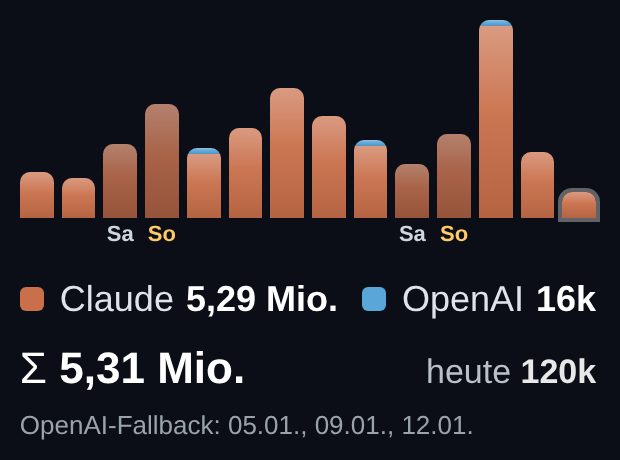
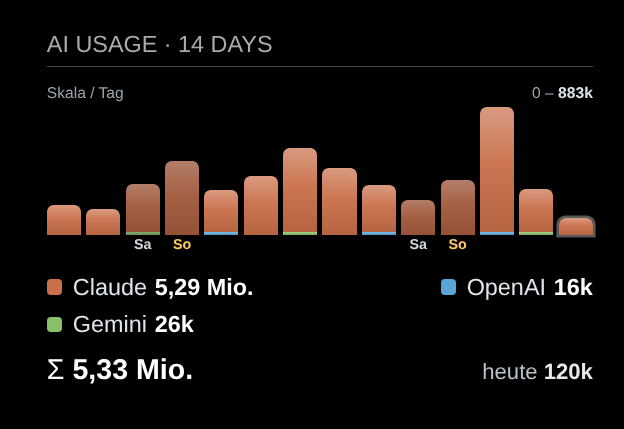
feat: add peak scale and quarter-hour refresh example

diff --git a/MMM-TokenUsage.js b/MMM-TokenUsage.js
@@ -6,6 +6,7 @@ Module.register("MMM-TokenUsage", {
 		dataSource: "data.json",
 		header: "AI Usage · 14 days",
 		barMaxHeight: 96,
+		showScale: true,
 		providerColors: {},
 		colorClaude: "#c96f4a",
 		colorOpenAI: "#5aa6d8"
@@ -38,12 +39,25 @@ Module.register("MMM-TokenUsage", {
 			series.reduce((sum, item) => sum + Number(item.daily[i] || 0), 0));
 		const peak = Math.max(...totals, 1);
 		const H = this.config.barMaxHeight;
+		if (this.config.showScale !== false) {
+			const scale = document.createElement("div");
+			scale.className = "tu-scale";
+			const title = document.createElement("span");
+			title.textContent = "Skala / Tag";
+			const range = document.createElement("span");
+			range.appendChild(document.createTextNode("0 – "));
+			const value = document.createElement("b");
+			value.textContent = this.fmt(peak);
+			range.appendChild(value);
+			scale.appendChild(title);
+			scale.appendChild(range);
+			w.appendChild(scale);
+		}
 
 		const chart = document.createElement("div");
 		chart.className = "tu-chart";
 		chart.style.height = `${H + 16}px`;
 		const anchor = new Date(String(d.generated || "").replace(" ", "T"));
-		const peakIdx = totals.indexOf(peak);
 		for (let i = 0; i < n; i++) {
 			const col = document.createElement("div");
 			col.className = "tu-col";

diff --git a/tests/harness.html b/tests/harness.html
@@ -1,0 +1,29 @@
+<!doctype html>
+<html lang="en">
+<head>
+	<meta charset="utf-8">
+	<meta name="viewport" content="width=device-width, initial-scale=1">
+	<title>MMM-TokenUsage render harness</title>
+	<style>
+		body { margin: 0; min-height: 100vh; display: flex; align-items: flex-start; justify-content: flex-end; background: #000; color: #fff; font-family: Roboto, Arial, sans-serif; }
+		.module { width: 420px; padding: 24px; }
+		.module-header { margin: 0 0 14px; padding-bottom: 6px; border-bottom: 1px solid #444; color: #aaa; font-size: 18px; text-transform: uppercase; }
+	</style>
+	<link rel="stylesheet" href="../MMM-TokenUsage.css">
+</head>
+<body>
+	<div class="module MMM-TokenUsage">
+		<div class="module-header">AI Usage · 14 days</div>
+	</div>
+	<script>window.Module = { register: (_name, definition) => { window.__module = definition; } };</script>
+	<script src="../MMM-TokenUsage.js"></script>
+	<script>
+		(async () => {
+			const module = window.__module;
+			module.config = { ...module.defaults };
+			module.data_ = await fetch("../data.json").then(response => response.json());
+			document.querySelector(".MMM-TokenUsage").appendChild(module.getDom());
+		})();
+	</script>
+</body>
+</html>

diff --git a/MMM-TokenUsage.css b/MMM-TokenUsage.css
@@ -2,6 +2,8 @@
 .tokenusage .tu-load { color: #9aa4b2; font-size: 16px; padding: 12px 0; }
 
 /* Chart */
+.tokenusage .tu-scale { display: flex; justify-content: space-between; align-items: baseline; margin: 0 0 5px; font-size: 12px; line-height: 14px; color: #9aa3ac; }
+.tokenusage .tu-scale b { color: #dfe4ea; font-weight: 600; }
 .tokenusage .tu-chart { display: flex; align-items: flex-end; gap: 4px; width: 100%; }
 .tokenusage .tu-col { display: flex; flex-direction: column; justify-content: flex-end; align-items: stretch; flex: 1 1 0; min-width: 6px; }
 .tokenusage .tu-stack { display: flex; flex-direction: column; justify-content: flex-end; border-radius: 5px 5px 0 0; overflow: hidden; }

diff --git a/tests/test_renderer.js b/tests/test_renderer.js
@@ -10,6 +10,9 @@ global.Module = {
 require("../MMM-TokenUsage.js");
 
 definition.config = { ...definition.defaults, providerColors: { gemini: "#112233" } };
+assert.strictEqual(definition.defaults.updateInterval, 15 * 60 * 1000);
+assert.strictEqual(definition.defaults.showScale, true);
+assert.strictEqual(definition.fmt(16823296), "16,82 Mio.");
 
 const generic = definition.normalizedSeries({
 	schema_version: 2,

diff --git a/README.md b/README.md
@@ -140,7 +140,7 @@ ssh mirror-host 'install -m 0644 /tmp/token-usage.json ~/MagicMirror/modules/MMM
 Alternatively expose the aggregate JSON through an existing internal web server and set
 `dataSource` to its URL.
 
-## Daily systemd timer
+## 15-minute systemd timer
 
 ```bash
 mkdir -p ~/.config/systemd/user
@@ -151,7 +151,8 @@ systemctl --user start mmm-tokenusage-collector.service
 ```
 
 The sample service expects `~/MagicMirror/modules/MMM-TokenUsage`, uses `Europe/Berlin`,
-and auto-detects the standard Claude Code/Codex locations. Adjust its command as needed.
+and auto-detects the standard Claude Code/Codex locations. It refreshes the atomic aggregate
+every 15 minutes, matching the module's default `updateInterval`. Adjust its command as needed.
 
 ## Configuration
 
@@ -161,6 +162,7 @@ and auto-detects the standard Claude Code/Codex locations. Adjust its command as
 | `updateInterval` | number | `900000`                | Refresh interval in milliseconds. |
 | `dataSource`     | string | `"data.json"`          | Relative JSON file or HTTP(S) URL. |
 | `barMaxHeight`   | number | `96`                    | Height of the tallest bar in pixels. |
+| `showScale`      | boolean | `true`                  | Show the compact `0 – peak` token scale above the chart. The peak is the largest combined daily value in the displayed range. |
 | `providerColors` | object | `{}`                    | Optional colour overrides keyed by provider id. |
 
 Example colour override:
